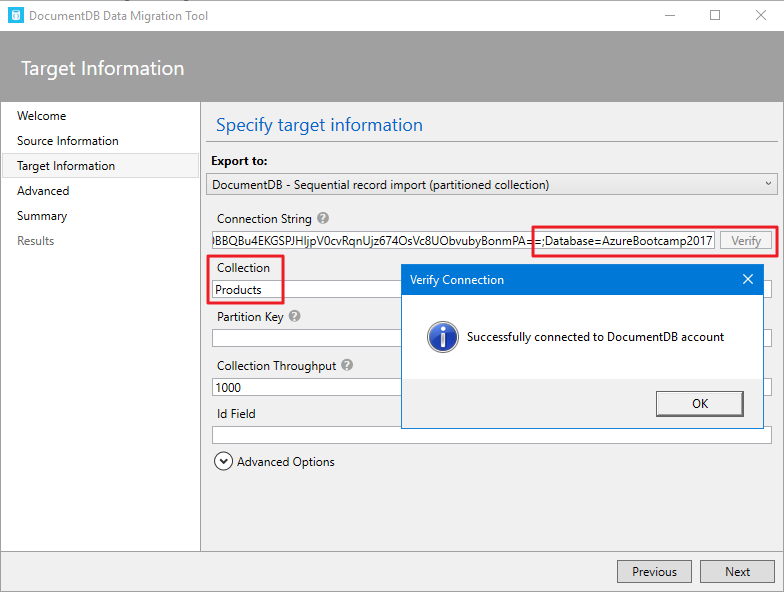
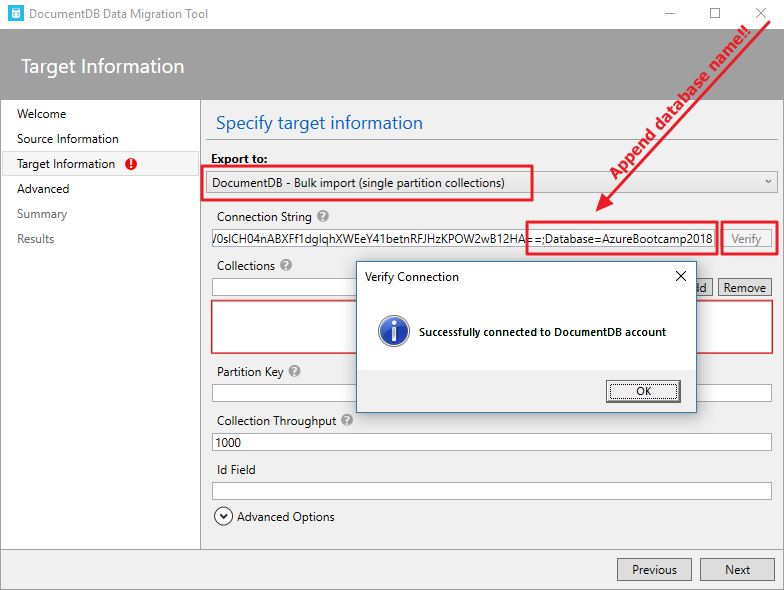
Added more screenshots

Changed region(s): [[0.0, 0.0, 1.0, 0.8237], [0.2755, 0.8542, 0.4286, 0.8847]]

diff --git a/readme.md b/readme.md
@@ -53,9 +53,9 @@ The Cosmos DB Data Migration tool is an open source solution that imports data t
 
 While the import tool includes a graphical user interface (dtui.exe), it can also be driven from the command line (dt.exe).  In fact, there is an option to output the associated command after setting up an import through the UI.  Tabular source data (e.g. SQL Server or CSV files) can be transformed such that hierarchical relationships (subdocuments) can be created during import.
 
-The migration tool is open source and can be found on GitHub in [this repository](https://github.com/azure/azure-documentDB-datamigrationtool) 
-An older version of the tool (a pre-compiled exe) can also be downloaden from:
+The migration tool is open source and its source code can be found on GitHub in [this repository](https://github.com/azure/azure-documentDB-datamigrationtool) However before you can use that you need to build en publish it. For the sake of this workshop you can also download an older  version of the tool (a pre-compiled exe) from:
 https://www.microsoft.com/en-us/download/details.aspx?id=46436
+You can run this tool directly without installing it.
 
 
 <a name="import-json"></a>
@@ -69,7 +69,7 @@ The JSON file source importer option allows you to import one or more single doc
 6.	On the **Source Information** screen, select the **JSON file(s)** option from the **Import from** drop-down menu.
 7.	Click **Add Files** and select to the sample JSON data set you downloaded in step 1. Click **Next** to proceed.
  ![Screen shot 007 Import JSON][7]
-8.	On the **Target Information** screen, you will see a number of export target options. Select the **Cosmos DB - Bulk import** option. *This allows you to import to a Cosmos DB using a stored procedure for efficiency.  The tool will create, execute, and then delete the stored procedure from the target collection.**
+8.	On the **Target Information** screen, you will see a number of export target options. Select the **DocumentDB - Bulk import** option. *This allows you to import data to a n Azure Cosmos DB. As this is an older import tool it still says 'DocumentDB' but that doesn't matter for its functionality **
 ![Screen shot 008 Import JSON][8]
 9.	Switch to the **Azure Portal** and navigate to the **Keys menu** for your Cosmos DB account. 
 10. Copy the **Primary Connection String** (this also contains the *Primary Key*)
@@ -86,7 +86,7 @@ The JSON file source importer option allows you to import one or more single doc
 
 	![Screen shot 010 Import JSON - Database name and Verify][10]
 
-13. Next, enter the name of the *Collection* to which the data will be imported. For example: *Products*
+13. Next, enter the name of the *Collection* to which the data will be imported. For example: *Products* and click 'Add' to add the collection to the list.
 14. Click **Next** to proceed to the 'Advanced' page. Click **Next** again to proceed to the *Summary*.
     > You can leave the *Partition Key* and *Id Field* blank. The default value of 1000 for *Collection Throughput* can be left as is.
 
@@ -96,6 +96,8 @@ The JSON file source importer option allows you to import one or more single doc
 	![Screenshot 011 - Summary][11]
 
 16. Once you are satisfied, click **Import**. Importing takes a rough 5 seconds. When completed you can close the *Cosmos DB Data Migration Tool*.
+
+
 17. In the Azure Portal you can now find your database under *Collections/Browse*
 		
 	![Screenshot 012 - Collections/Browse][12]
@@ -357,7 +359,7 @@ We create a simple async handler to our query input.
 ## Summary
 By completing this lab you have learned how to get started with Azure Cosmos DB. 
 This includes creating a new account, importing data, running queries, and executing a query via a console application. 
-For more information, please check out [Cosmos DB.com](http://www.Cosmos DB.com)
+For more information, please check out [CosmosDB.com](http://www.CosmosDB.com)
 
 <!--Image references-->
 [1]: media/001_New_Databases_NoSQL.png
